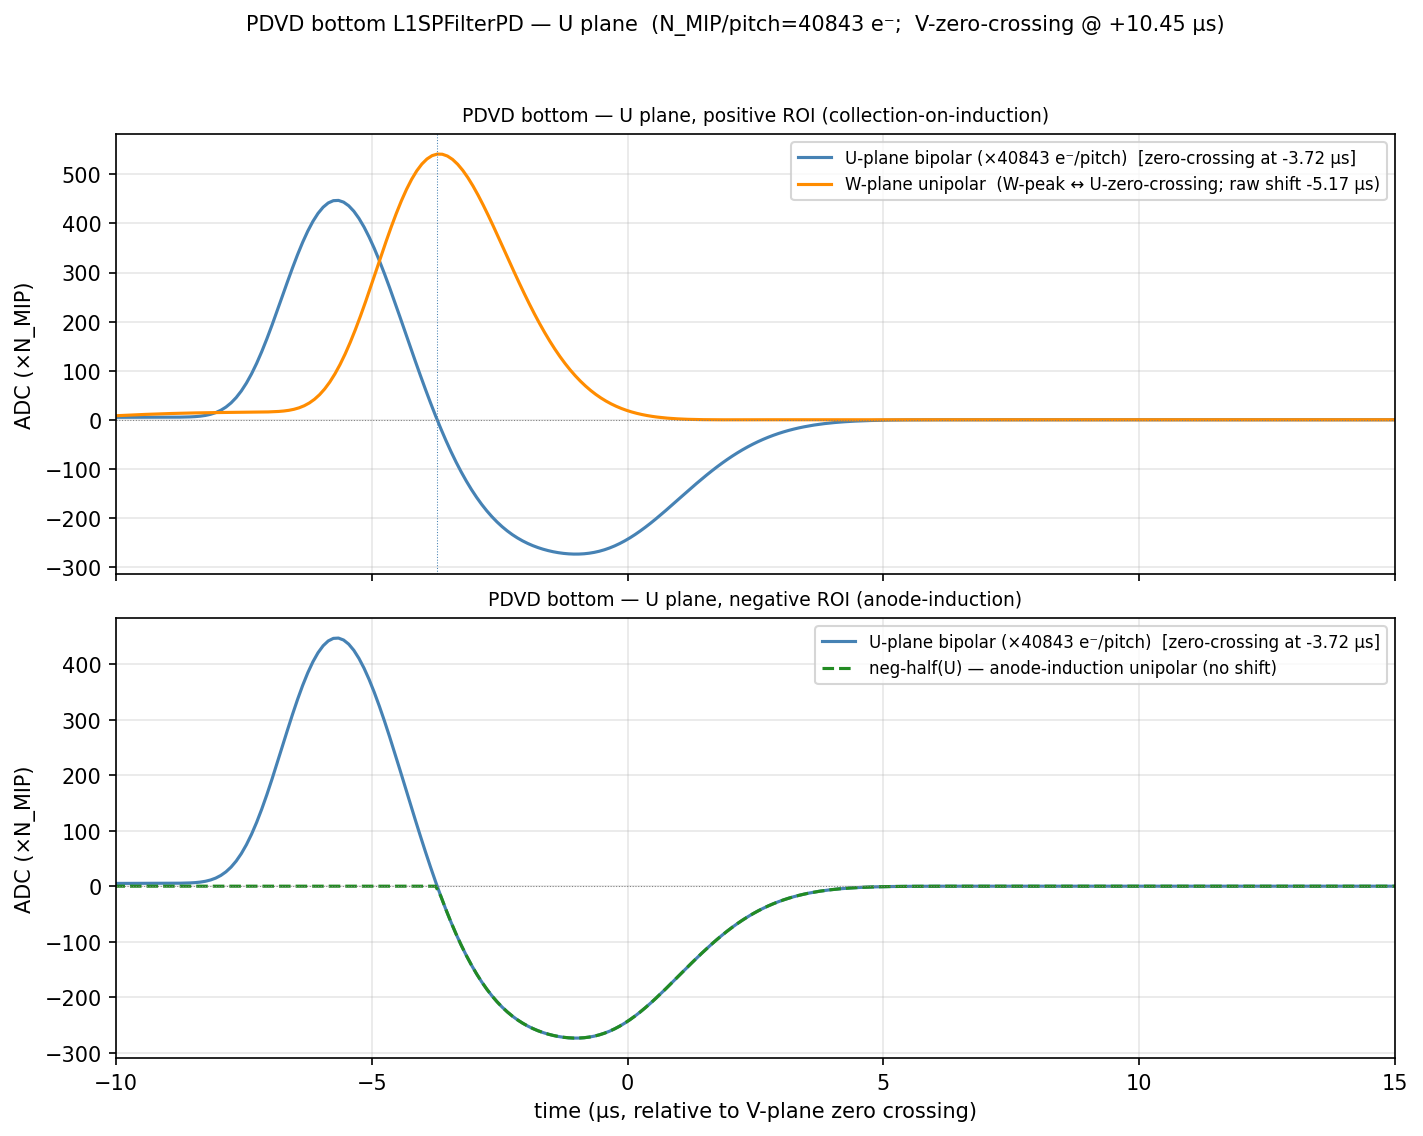
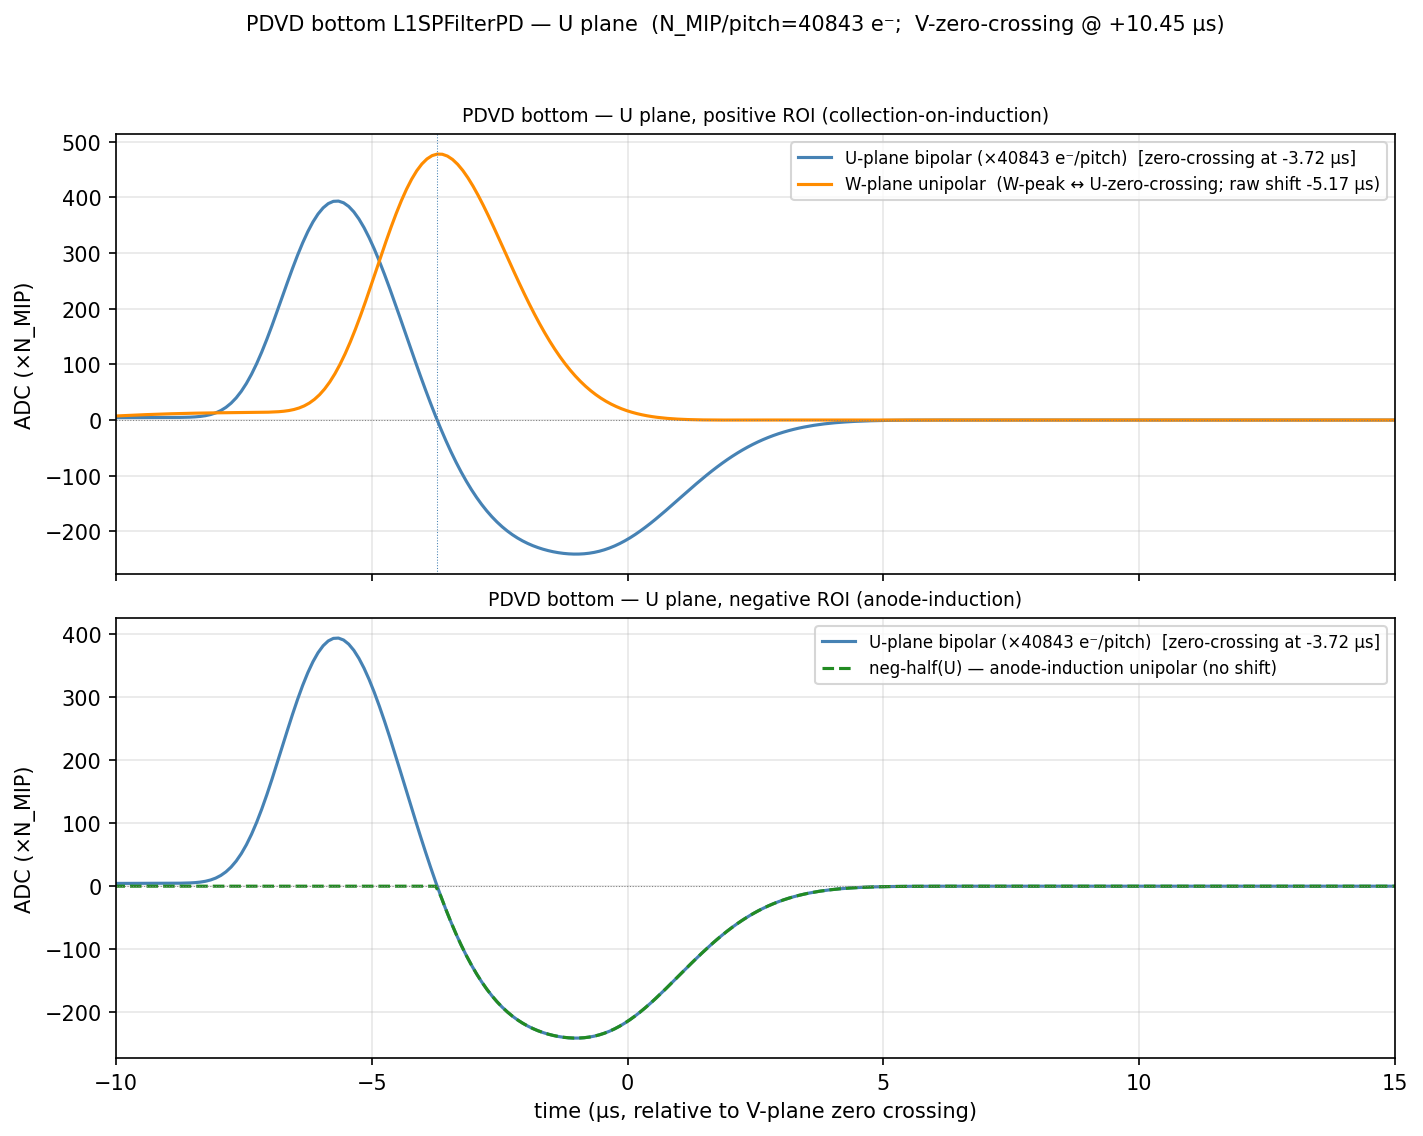
pdvd: PDVD postgain de-compensation after FR sentinel-path fix
The PDVD field response (protodunevd_FR_imbalance3p_260501.json.bz2)
had an all-zero sentinel path at pp=0 on the W plane that
under-normalised the W collection peak by ~12%.  The deficit had been
absorbed into the per-CRP postgain.  The FR has now been corrected
(FR_xn_boost_3.json.bz2, same filename in wire-cell-data);
de-compensate the validators and docs accordingly.

- nf_plot/track_response_pdvd_bottom.py: POSTGAIN 1.1365 -> 1.0.
- nf_plot/track_response_pdvd_top.py:    POSTGAIN 1.52 -> 1.36.
- sp_plot/README.md: convert "Follow-up" section to "Resolution" with
  the actual landed values; cross-reference the chndb-resp kernel
  files which are intentionally not regenerated.
- nf_plot/README.md, nf_plot/track_response_tool.md: rewrite the
  postgain footnotes from "provisional / revisit" to historical "was
  X before FR fix; current value is Y" with the same context.
- docs/{coherent_nf_params_comparison,sp_comparison_pdhd_pdvd,sp,nf}.md:
  update postgain values; nf.md adds a clarifying note that the
  chndb-resp kernel postgains (1.1365 / 1.52) reflect generation-time,
  not the current calibration.
- sp_plot/*.png: regenerated against the corrected FR / new postgains.

diff --git a/pdvd/nf_plot/track_response_pdvd_top.py b/pdvd/nf_plot/track_response_pdvd_top.py
@@ -11,7 +11,7 @@ line FR.
 Configuration source (cfg/pgrapher/experiment/protodunevd/params.jsonnet:128):
     elecs[1] = { type: "JsonElecResponse",
                  filename: "dunevd-coldbox-elecresp-top-psnorm_400.json.bz2",
-                 postgain: 1.52 }
+                 postgain: 1.36 }
 
 Outputs:
   track_response_pdvd_top_U.png
@@ -24,7 +24,7 @@ PDVD detector response.
 
 Top-CRP electronics (coherent_nf_params_comparison.md §2–3):
   ER       : JsonElecResponse (peak ≈ 7.2 mV/fC effective FE gain, fast)
-  postgain : 1.52
+  postgain : 1.36
   ADC      : 14-bit, 0.0–2.0 V → 8.192 ADC/mV
   pitch    : U=V=7.65 mm,  W=5.10 mm  (read from FR file)
   N_MIP    : 1.8 MeV/cm × pitch_cm × 0.7 / 23.6 eV
@@ -64,7 +64,7 @@ ADC_TICK_NS = 500.0
 # the wraparound zone.
 OUTPUT_WINDOW_NS = 160_000.0
 
-POSTGAIN    = 1.52        # params.jsonnet:131
+POSTGAIN    = 1.36        # params.jsonnet:131
 ADC_PER_MV  = 8.192       # 14-bit, 0–2 V (§3 PDVD top)
 
 

diff --git a/pdvd/nf_plot/track_response_pdvd_bottom.py b/pdvd/nf_plot/track_response_pdvd_bottom.py
@@ -18,7 +18,7 @@ overlay is shown for visual continuity only — shape and scale do not reflect
 PDVD detector response.
 
 Bottom-CRP electronics (coherent_nf_params_comparison.md §2–3):
-  cold electronics  gain=7.8 mV/fC,  shaping=2.2 µs,  postgain=1.1365
+  cold electronics  gain=7.8 mV/fC,  shaping=2.2 µs,  postgain=1.0
   ADC: 14-bit, 0.2–1.6 V → 11.70 ADC/mV
   pitch (per plane, read from FR file):  U=V=7.65 mm,  W=5.10 mm
   N_MIP (user definition) = 1.8 MeV/cm × pitch_cm × 0.7 / 23.6 eV
@@ -60,7 +60,7 @@ OUTPUT_WINDOW_NS = 160_000.0
 # PDVD bottom-CRP cold-electronics parameters (§2)
 GAIN        = 7.8  * units.mV / units.fC
 SHAPING     = 2.2  * units.us
-POSTGAIN    = 1.1365
+POSTGAIN    = 1.0
 
 # PDVD bottom ADC: 14-bit, 0.2–1.6 V fullscale → 11.70 ADC/mV (§3)
 ADC_PER_MV  = 11.70

diff --git a/pdvd/sp_plot/README.md b/pdvd/sp_plot/README.md
@@ -65,46 +65,46 @@ python illustrate_pdvd_w_sentinel_path_bug.py
 #   row 2: line_source_response buggy vs fixed; U/V identical, W shows Δ
 ```
 
-### Follow-up: postgain values to revisit when the FR is fixed
+### Resolution: postgain values updated after FR fix
 
-The all-zero sentinel path is **also in the upstream Garfield FR file**
-(`protodunevd_FR_imbalance3p_260501.json.bz2`).  Once the FR is
-regenerated (in progress with the FR-file owners), the W-plane
-collection peak will recover the missing ~12% on its own, and the
-existing detector-calibration `postgain` values become over-corrections:
+The all-zero sentinel path was **also in the upstream Garfield FR file**
+(`protodunevd_FR_imbalance3p_260501.json.bz2`).  The FR has since been
+regenerated (`FR_xn_boost_3.json.bz2`, copied over the same filename in
+`wire-cell-data/`); re-running this script confirms the buggy/fixed
+integrators agree (`peak ×1.0000`, `∫ ×1.0000`), so the W-plane
+under-normalisation is gone.  The detector-calibration `postgain` values
+that absorbed the deficit have been de-compensated accordingly:
 
-- **PDVD-bottom: `postgain = 1.1365` is suspect.**  PDVD-bottom shares
-  cold electronics with PDHD (gain = 7.8 mV/fC vs PDHD's 14 mV/fC are
-  the only difference; everything else is the same chip).  PDHD has
-  `postgain = 1.0`.  The 1.1365 / 1.0 ≈ 1.137 excess closely tracks
-  the W-plane line-source-integrator deficit (peak ×1.124, integral
-  ×1.117).  Plausible interpretation: the bottom-CRP postgain was
-  calibrated **through the collection plane**, so the W-plane FR
-  under-normalisation got absorbed into `postgain`.  After the FR fix:
-  expect the bottom-CRP postgain to drop to ~1.0 (PDHD-equivalent).
-- **PDVD-top: `postgain = 1.52` should scale down by the same ~12%.**
-  Same calibration path (collection plane), same W under-normalisation,
-  but with the top-CRP JsonElecResponse layered on top.  After the FR
-  fix: expect ~1.52 / 1.117 ≈ 1.36.
+- **PDVD-bottom: `postgain` 1.1365 → 1.0.**  PDVD-bottom shares cold
+  electronics with PDHD (gain = 7.8 mV/fC vs PDHD's 14 mV/fC; everything
+  else is the same chip).  PDHD has `postgain = 1.0`; the 1.1365 / 1.0 ≈
+  1.137 excess closely tracked the W-plane line-source-integrator deficit
+  (peak ×1.124, integral ×1.117).  After the FR fix the bottom postgain
+  drops to PDHD-equivalent 1.0.
+- **PDVD-top: `postgain` 1.52 → 1.36** (= 1.52 / 1.117).  Same calibration
+  path (collection plane), same W under-normalisation, but with the
+  top-CRP `JsonElecResponse` layered on top.
 
-When the corrected FR lands, update **all three** of:
+Updates landed in:
 
 1. `wirecell/sigproc/track_response_defaults.jsonnet` —
-   `pdvd-bottom.postgain` and `pdvd-top.postgain`.
+   `pdvd-bottom.postgain = 1.0`, `pdvd-top.postgain = 1.36`.
 2. `pdvd/nf_plot/track_response_pdvd_{bottom,top}.py` —
-   the `POSTGAIN` module constants (used by the chndb-resp comparison
-   and PNG generation in `nf_plot/`).
-3. Regenerate the L1SP kernel JSONs in `wire-cell-data/`:
+   `POSTGAIN` module constants updated.
+3. `cfg/pgrapher/experiment/protodunevd/params.jsonnet` —
+   `elecs[0].postgain = 1.0`, `elecs[1].postgain = 1.36`.
+4. L1SP kernel JSONs regenerated in `wire-cell-data/`:
 
    ```
    wirecell-sigproc gen-l1sp-kernels -d pdvd-bottom  pdvd_bottom_l1sp_kernels.json.bz2
    wirecell-sigproc gen-l1sp-kernels -d pdvd-top     pdvd_top_l1sp_kernels.json.bz2
    ```
 
-Re-running this script (`illustrate_pdvd_w_sentinel_path_bug.py`)
-against the corrected FR is a quick way to confirm the recovery: row 0
-column W should look like row 1 column W, and row 2 column W should
-collapse to "no Δ" exactly like U and V.
+The coherent-noise removal kernels (`chndb-resp-bot.jsonnet`,
+`chndb-resp-top.jsonnet`) were **not** regenerated — the NF thresholds
+were tuned against those response shapes and re-tuning is deferred to a
+later NF re-calibration pass.  See the headers of those files for the
+generation-time postgain (1.1365 / 1.52).
 
 ---
 

diff --git a/pdvd/nf_plot/README.md b/pdvd/nf_plot/README.md
@@ -120,29 +120,20 @@ a WireCell simulation waveform from
 | Script | Detector | FR file | Electronics | Sim anode |
 |--------|----------|---------|-------------|-----------|
 | `track_response_pdhd.py` | PDHD APAs 1/2/3 | `dune-garfield-1d565.json.bz2` | cold 14 mV/fC, 2.2 µs | HD anode 1 |
-| `track_response_pdvd_bottom.py` | PDVD bottom CRP (anodes 0–3) | `protodunevd_FR_norminal_260324.json.bz2` | cold 7.8 mV/fC, 2.2 µs, postgain 1.1365 † | VD anode 0 |
-| `track_response_pdvd_top.py` | PDVD top CRP (anodes 4–7) | `protodunevd_FR_norminal_260324.json.bz2` | `JsonElecResponse` (peak ≈ 7.2 mV/fC), postgain 1.52 † | VD anode 4 |
+| `track_response_pdvd_bottom.py` | PDVD bottom CRP (anodes 0–3) | `protodunevd_FR_norminal_260324.json.bz2` | cold 7.8 mV/fC, 2.2 µs, postgain 1.0 | VD anode 0 |
+| `track_response_pdvd_top.py` | PDVD top CRP (anodes 4–7) | `protodunevd_FR_norminal_260324.json.bz2` | `JsonElecResponse` (peak ≈ 7.2 mV/fC), postgain 1.36 | VD anode 4 |
 
-> **† `postgain` follow-up — revisit when the PDVD FR file is fixed.**
-> Both PDVD postgains were calibrated through the W (collection) plane
-> against an FR file that ships an all-zero "sentinel" path at pp=0 on
-> W (see `pdvd/sp_plot/illustrate_pdvd_w_sentinel_path_bug.py`), which
-> under-normalises the W line-source integral by ~12% (0.823 e → 0.920 e
-> per electron after the in-software fix).  The calibration absorbs that
-> deficit into postgain.  PDVD-bottom shares cold electronics with PDHD
-> (postgain = 1.0), so 1.1365 / 1.0 ≈ 1.137 ≈ the FR-driven excess.
->
-> When the corrected FR lands:
->
-> - **PDVD-bottom:** drop `POSTGAIN` from 1.1365 → 1.0 (PDHD-equivalent).
-> - **PDVD-top:** scale `POSTGAIN` from 1.52 down by the same ~12%, to
->   ≈ 1.36 (re-derive from the calibration once the new FR is in hand).
->
-> Files to update at that time: the `POSTGAIN` constant in each
-> `track_response_pdvd_*.py`, the `postgain` entries in
-> `wire-cell-python/wirecell/sigproc/track_response_defaults.jsonnet`,
-> and regenerate the L1SP kernel JSONs in `wire-cell-data/` via
-> `wirecell-sigproc gen-l1sp-kernels -d pdvd-{bottom,top}`.
+> **`postgain` history.**  Both PDVD postgains were originally calibrated
+> through the W (collection) plane against an FR file that shipped an
+> all-zero "sentinel" path at pp=0 on W (see
+> `pdvd/sp_plot/illustrate_pdvd_w_sentinel_path_bug.py`), which
+> under-normalised the W line-source integral by ~12% (0.823 e → 0.920 e
+> per electron after the in-software fix).  The calibration absorbed that
+> deficit into postgain (PDVD-bottom 1.1365, PDVD-top 1.52).  The FR has
+> since been corrected (`FR_xn_boost_3.json.bz2`, copied over the same
+> filename in `wire-cell-data/`) and the postgains have been
+> de-compensated: bottom 1.1365 → 1.0 (PDHD-equivalent; same chip),
+> top 1.52 → 1.36 (= 1.52 / 1.117).
 
 ### How to run
 

diff --git a/pdvd/docs/nf.md b/pdvd/docs/nf.md
@@ -312,9 +312,21 @@ builds `respec` by one of three paths (first match wins):
 two split files:
 
 - `chndb-resp-bot.jsonnet` — bottom CRP (cold ER, gain 7.8 mV/fC, postgain
-  1.1365, ADC/mV 11.70): `response_offset` = 239 (U) / 245 (V).
-- `chndb-resp-top.jsonnet` — top CRP (JsonElecResponse, postgain 1.52,
-  ADC/mV 8.192): `response_offset` = 240 (U) / 243 (V).
+  1.1365 [generation-time, see note], ADC/mV 11.70): `response_offset` =
+  239 (U) / 245 (V).
+- `chndb-resp-top.jsonnet` — top CRP (JsonElecResponse, postgain 1.52
+  [generation-time, see note], ADC/mV 8.192): `response_offset` = 240 (U)
+  / 243 (V).
+
+> The postgain values quoted here (1.1365 / 1.52) are the generation-time
+> values used when these FR⊗ER kernel arrays were exported.  After the
+> upstream FR sentinel-path fix
+> (`protodunevd_FR_imbalance3p_260501.json.bz2` → `FR_xn_boost_3.json.bz2`),
+> the physically correct postgains are 1.0 (bottom) and 1.36 (top).  The
+> kernel arrays in these files are intentionally **not** regenerated
+> because the NF thresholds were tuned against the response shape they
+> encode; regeneration is deferred to a future NF re-calibration pass.
+> See the per-file headers for the same note.
 
 The selection is gated on the anode index `n`: `n < 4` ⇒ bottom, `n >= 4`
 ⇒ top. The kernel is scaled by `gain_scale = if n >= 4 then 1.0 else
@@ -462,7 +474,7 @@ on the main path after the tap.
 | `toolkit/cfg/pgrapher/experiment/protodunevd/nf.jsonnet` | Returns OmnibusNoiseFilter pnode per anode |
 | `toolkit/cfg/pgrapher/experiment/protodunevd/chndb-base.jsonnet` | Channel DB: groups, bad channels, per-channel defaults |
 | `toolkit/cfg/pgrapher/experiment/protodunevd/chndb-resp-bot.jsonnet` | FR⊗ER kernel for bottom CRP (cold ER, gain 7.8 mV/fC); wired into `chndb-base.jsonnet` |
-| `toolkit/cfg/pgrapher/experiment/protodunevd/chndb-resp-top.jsonnet` | FR⊗ER kernel for top CRP (JsonElecResponse, postgain 1.52); wired into `chndb-base.jsonnet` |
+| `toolkit/cfg/pgrapher/experiment/protodunevd/chndb-resp-top.jsonnet` | FR⊗ER kernel for top CRP (JsonElecResponse, generation-time postgain 1.52; current postgain is 1.36 — kernel intentionally not regenerated, see file header); wired into `chndb-base.jsonnet` |
 | `toolkit/cfg/pgrapher/experiment/protodunevd/params.jsonnet` | Detector parameters (tick, nticks, strip_length file) |
 | `toolkit/cfg/pgrapher/common/resamplers.jsonnet` | Resampler pnode construction |
 | `toolkit/sigproc/src/ProtoduneVD.cxx` | C++ impl of PDVD NF modules |

diff --git a/pdvd/nf_plot/track_response_tool.md b/pdvd/nf_plot/track_response_tool.md
@@ -166,21 +166,18 @@ To build an L1SP kernel for PDHD or PDVD, replace these parameters:
 | basis 1 (collection)   | W with `collect_time_offset = +3 µs`    | unipolar ± with `unipolar_time_offset` (default +3 µs, `L1SPFilterPD.h:114`) |
 | output basis weights   | `l1_col_scale=1.15`, `l1_ind_scale=0.50` | `l1_basis0_scale`, `l1_basis1_scale`  |
 
-> **‡ PDVD `postgain` is provisional — revisit when the PDVD FR is
-> fixed.**  The current values
+> **‡ PDVD `postgain` history.**  The original values
 > (PDVD-bottom = 1.1365, PDVD-top = 1.52) were calibrated through the
-> W (collection) plane against an FR file that under-normalises the
+> W (collection) plane against an FR file that under-normalised the
 > W-plane line-source integrand by ~12% (an all-zero "sentinel" path
 > at pp=0 on W; see `pdvd/sp_plot/illustrate_pdvd_w_sentinel_path_bug.py`).
-> The calibration absorbs that deficit into `postgain`, so when the
-> corrected FR lands the postgain values are expected to drop:
-> PDVD-bottom → 1.0 (matches PDHD, with which it shares electronics);
-> PDVD-top → ≈ 1.36 (re-derive from the new calibration).  Update the
-> `POSTGAIN` constants in `track_response_pdvd_{bottom,top}.py`, the
-> `postgain` entries in
+> The calibration absorbed that deficit into `postgain`.  The FR has
+> since been corrected (`FR_xn_boost_3.json.bz2`) and the postgains have
+> been de-compensated: PDVD-bottom = 1.0 (PDHD-equivalent; same chip),
+> PDVD-top = 1.36 (= 1.52 / 1.117).  These values are now wired into
+> `track_response_pdvd_{bottom,top}.py` (`POSTGAIN`),
 > `wire-cell-python/wirecell/sigproc/track_response_defaults.jsonnet`,
-> and regenerate `wire-cell-data/pdvd_{bottom,top}_l1sp_kernels.json.bz2`
-> via `wirecell-sigproc gen-l1sp-kernels -d pdvd-{bottom,top}`.
+> and the regenerated `wire-cell-data/pdvd_{bottom,top}_l1sp_kernels.json.bz2`.
 
 The `l1sp_response()` function in `track_response_uboone.py` is detector-agnostic — pass
 the PDHD FR line, PDHD ER, and period; the rest is the same FFT product.

diff --git a/pdvd/docs/coherent_nf_params_comparison.md b/pdvd/docs/coherent_nf_params_comparison.md
@@ -156,8 +156,8 @@ configurations.
 |---|---|---|---|
 | uBooNE | **14.0** | 2.2 | 1.2 |
 | SBND | **14.0** (common-params default; not overridden) | 2.0 | 1.0 |
-| PDVD bottom (anodes 0–3) | **7.8** (overridable) | 2.2 | 1.1365 |
-| PDVD top (anodes 4–7) | n/a (uses `JsonElecResponse` waveform; effective FE gain ≈ 11 mV/fC × postgain 1.52 ≈ 16.7 mV/fC) | n/a (response built into JSON) | 1.52 |
+| PDVD bottom (anodes 0–3) | **7.8** (overridable) | 2.2 | 1.0 (was 1.1365 before FR fix) |
+| PDVD top (anodes 4–7) | n/a (uses `JsonElecResponse` waveform; effective FE gain ≈ 11 mV/fC × postgain 1.36 ≈ 14.96 mV/fC) | n/a (response built into JSON) | 1.36 (was 1.52 before FR fix) |
 | PDHD | external (`std.extVar("elecGain")`; typical 7.8 or 14.0) | 2.2 | (none in default block) |
 | PDSP | (uses common defaults) | 2.2 | 1.1365 |
 
@@ -198,7 +198,7 @@ than the 14-bit DUNE experiments, so an ADC-domain threshold of
 | uBooNE | 7.32 mV | 0.523 fC (gain 14 mV/fC) | **3.27 ke-** |
 | SBND | 6.59 mV | 0.471 fC (gain 14) | **2.94 ke-** |
 | PDVD bottom (gain 7.8) | 1.28 mV | 0.165 fC | **1.03 ke-** |
-| PDVD top (effective ~11 mV/fC × postgain 1.52) | 1.83 mV | 0.110 fC | **0.69 ke-** |
+| PDVD top (effective ~11 mV/fC × postgain 1.36) | 1.83 mV | 0.123 fC | **0.77 ke-** |
 | PDHD (gain 14 mV/fC) | 1.28 mV | 0.0916 fC | **0.57 ke-** |
 
 (1 fC ≈ 6242 e-)

diff --git a/pdvd/docs/sp_comparison_pdhd_pdvd.md b/pdvd/docs/sp_comparison_pdhd_pdvd.md
@@ -37,7 +37,7 @@ bottom today are electronics-derived:
 
 | Knob | Bottom (ident 0–3) | Top (ident 4–7) | Why |
 |------|--------------------|-----------------|-----|
-| `elecresponse` | `tools.elec_resps[0]` — `ColdElecResponse`, 7.8 mV/fC, 2.2 µs shaping (`params.jsonnet:124–126`) | `tools.elec_resps[1]` — `JsonElecResponse` from `dunevd-coldbox-elecresp-top-psnorm_400.json.bz2`, postgain 1.52 (`params.jsonnet:129–132`) | Physically distinct front-end electronics on the two drift faces |
+| `elecresponse` | `tools.elec_resps[0]` — `ColdElecResponse`, 7.8 mV/fC, 2.2 µs shaping (`params.jsonnet:124–126`) | `tools.elec_resps[1]` — `JsonElecResponse` from `dunevd-coldbox-elecresp-top-psnorm_400.json.bz2`, postgain 1.36 (`params.jsonnet:129–132`) | Physically distinct front-end electronics on the two drift faces |
 | `fullscale` (→ `ADC_mV`) | `params.adc.fullscale[1] − [0]` = 1.4 V → `ADC_mV` ≈ 11.71 / mV | hard-overridden to 2.0 V → `ADC_mV` ≈ 8.19 / mV (`sp.jsonnet:66–69`) | Top ADC spans 0–2 V; bottom 0.2–1.6 V |
 | L1SP `kernels_file` | `pdvd_bottom_l1sp_kernels.json.bz2` | `pdvd_top_l1sp_kernels.json.bz2` | Per-region response kernels generated offline |
 | L1SP `gain_scale` | `elec.gain / 7.8 mV/fC` | `1.0` (top gain is JSON-fixed; no runtime knob) | Reference electronics differ by region |

diff --git a/pdvd/docs/sp.md b/pdvd/docs/sp.md
@@ -35,7 +35,7 @@ ProtoDUNE-VD has two drift technologies with different electronics:
 | Anode ident | Drift | Electronics response | Full-scale |
 |-------------|-------|---------------------|-----------|
 | 0–3 | Bottom (TDE) | `ColdElecResponse` 7.8 mV/fC, shaping 2.2 µs | 0.2–1.6 V (1.4 V range, `params.adc.fullscale`) |
-| 4–7 | Top | `JsonElecResponse` from `dunevd-coldbox-elecresp-top-psnorm_400.json.bz2`, postgain 1.52 | Forced 2.0 V |
+| 4–7 | Top | `JsonElecResponse` from `dunevd-coldbox-elecresp-top-psnorm_400.json.bz2`, postgain 1.36 | Forced 2.0 V |
 
 Config in `sp.jsonnet:43–55` and `params.jsonnet:113–125`.
 The `ADC_mV` ratio (`(2^resolution - 1) / fullscale`, `sp.jsonnet:43–47`)
